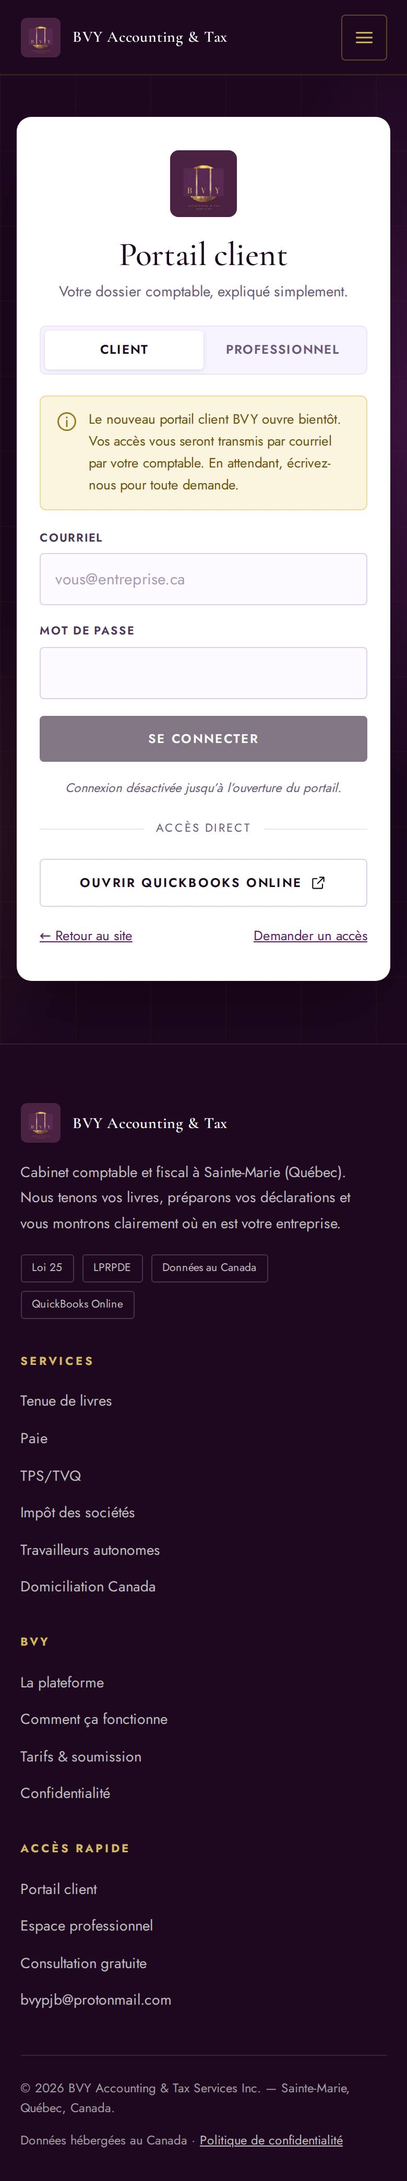
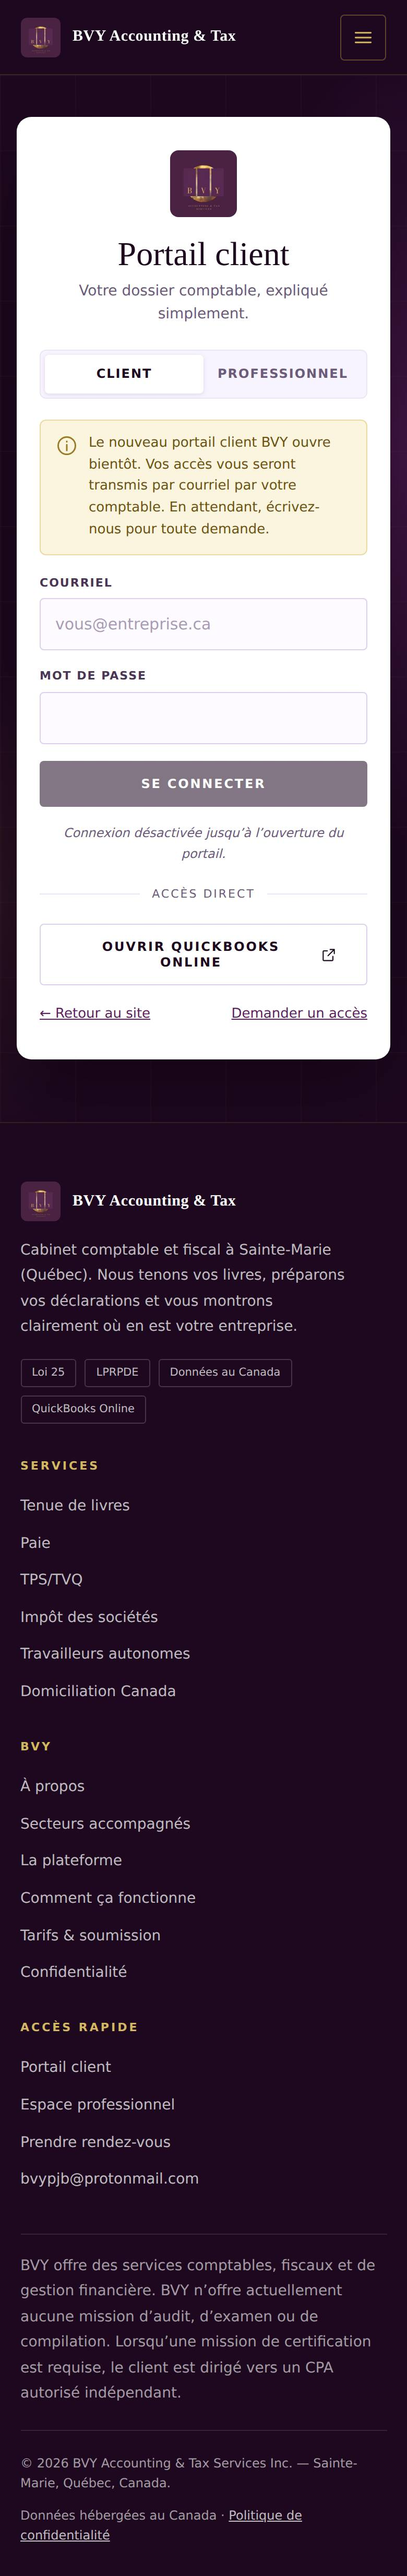
BVY site: sector photos, lazy-load aware screenshots
Twelve Pixabay images for the six sector pages (10 are labelled
AI-generated on Pixabay, listed in CREDITS.md for owner review); footer
notice full width; review screenshots now include the sector pages.

Claude-Session: https://claude.ai/code/session_01TRM3YquBMTjpZKPZenWy7D

Changed region(s): [[0.0308, 0.0, 0.9846, 0.9952], [0.4923, 0.8708, 0.8615, 0.9952]]

diff --git a/bvy-platform/apps/website/public/404.html b/bvy-platform/apps/website/public/404.html
@@ -20,7 +20,7 @@
 <link rel="preconnect" href="https://fonts.googleapis.com">
 <link rel="preconnect" href="https://fonts.gstatic.com" crossorigin>
 <link href="https://fonts.googleapis.com/css2?family=Cormorant+Garamond:ital,wght@0,400;0,500;0,600;0,700;1,400;1,500&family=Jost:wght@300;400;500;600;700&family=IBM+Plex+Mono:wght@400&display=swap" rel="stylesheet">
-<link rel="stylesheet" href="/assets/css/bvy.css?v=7859600e">
+<link rel="stylesheet" href="/assets/css/bvy.css?v=3af2aff9">
 
 </head>
 <body>
@@ -161,6 +161,6 @@
     </div>
   </div>
 </footer>
-<script src="/assets/js/bvy.js?v=7859600e" defer></script>
+<script src="/assets/js/bvy.js?v=3af2aff9" defer></script>
 </body>
 </html>

diff --git a/bvy-platform/apps/website/public/a-propos/index.html b/bvy-platform/apps/website/public/a-propos/index.html
@@ -20,7 +20,7 @@
 <link rel="preconnect" href="https://fonts.googleapis.com">
 <link rel="preconnect" href="https://fonts.gstatic.com" crossorigin>
 <link href="https://fonts.googleapis.com/css2?family=Cormorant+Garamond:ital,wght@0,400;0,500;0,600;0,700;1,400;1,500&family=Jost:wght@300;400;500;600;700&family=IBM+Plex+Mono:wght@400&display=swap" rel="stylesheet">
-<link rel="stylesheet" href="/assets/css/bvy.css?v=7859600e">
+<link rel="stylesheet" href="/assets/css/bvy.css?v=3af2aff9">
 
 </head>
 <body>
@@ -213,6 +213,6 @@
     </div>
   </div>
 </footer>
-<script src="/assets/js/bvy.js?v=7859600e" defer></script>
+<script src="/assets/js/bvy.js?v=3af2aff9" defer></script>
 </body>
 </html>

diff --git a/bvy-platform/apps/website/public/comptabilite-agence-placement-personnel-quebec/index.html b/bvy-platform/apps/website/public/comptabilite-agence-placement-personnel-quebec/index.html
@@ -20,7 +20,7 @@
 <link rel="preconnect" href="https://fonts.googleapis.com">
 <link rel="preconnect" href="https://fonts.gstatic.com" crossorigin>
 <link href="https://fonts.googleapis.com/css2?family=Cormorant+Garamond:ital,wght@0,400;0,500;0,600;0,700;1,400;1,500&family=Jost:wght@300;400;500;600;700&family=IBM+Plex+Mono:wght@400&display=swap" rel="stylesheet">
-<link rel="stylesheet" href="/assets/css/bvy.css?v=7859600e">
+<link rel="stylesheet" href="/assets/css/bvy.css?v=3af2aff9">
 
 </head>
 <body>
@@ -315,6 +315,6 @@
     </div>
   </div>
 </footer>
-<script src="/assets/js/bvy.js?v=7859600e" defer></script>
+<script src="/assets/js/bvy.js?v=3af2aff9" defer></script>
 </body>
 </html>

diff --git a/bvy-platform/apps/website/public/comptabilite-createurs-contenu-influenceurs-canada/index.html b/bvy-platform/apps/website/public/comptabilite-createurs-contenu-influenceurs-canada/index.html
@@ -20,7 +20,7 @@
 <link rel="preconnect" href="https://fonts.googleapis.com">
 <link rel="preconnect" href="https://fonts.gstatic.com" crossorigin>
 <link href="https://fonts.googleapis.com/css2?family=Cormorant+Garamond:ital,wght@0,400;0,500;0,600;0,700;1,400;1,500&family=Jost:wght@300;400;500;600;700&family=IBM+Plex+Mono:wght@400&display=swap" rel="stylesheet">
-<link rel="stylesheet" href="/assets/css/bvy.css?v=7859600e">
+<link rel="stylesheet" href="/assets/css/bvy.css?v=3af2aff9">
 
 </head>
 <body>
@@ -315,6 +315,6 @@
     </div>
   </div>
 </footer>
-<script src="/assets/js/bvy.js?v=7859600e" defer></script>
+<script src="/assets/js/bvy.js?v=3af2aff9" defer></script>
 </body>
 </html>

diff --git a/bvy-platform/apps/website/public/comptabilite-entreprise-ia-saas-quebec/index.html b/bvy-platform/apps/website/public/comptabilite-entreprise-ia-saas-quebec/index.html
@@ -20,7 +20,7 @@
 <link rel="preconnect" href="https://fonts.googleapis.com">
 <link rel="preconnect" href="https://fonts.gstatic.com" crossorigin>
 <link href="https://fonts.googleapis.com/css2?family=Cormorant+Garamond:ital,wght@0,400;0,500;0,600;0,700;1,400;1,500&family=Jost:wght@300;400;500;600;700&family=IBM+Plex+Mono:wght@400&display=swap" rel="stylesheet">
-<link rel="stylesheet" href="/assets/css/bvy.css?v=7859600e">
+<link rel="stylesheet" href="/assets/css/bvy.css?v=3af2aff9">
 
 </head>
 <body>
@@ -316,6 +316,6 @@
     </div>
   </div>
 </footer>
-<script src="/assets/js/bvy.js?v=7859600e" defer></script>
+<script src="/assets/js/bvy.js?v=3af2aff9" defer></script>
 </body>
 </html>

diff --git a/bvy-platform/apps/website/public/comptabilite-soins-domicile-services-sociaux-quebec/index.html b/bvy-platform/apps/website/public/comptabilite-soins-domicile-services-sociaux-quebec/index.html
@@ -20,7 +20,7 @@
 <link rel="preconnect" href="https://fonts.googleapis.com">
 <link rel="preconnect" href="https://fonts.gstatic.com" crossorigin>
 <link href="https://fonts.googleapis.com/css2?family=Cormorant+Garamond:ital,wght@0,400;0,500;0,600;0,700;1,400;1,500&family=Jost:wght@300;400;500;600;700&family=IBM+Plex+Mono:wght@400&display=swap" rel="stylesheet">
-<link rel="stylesheet" href="/assets/css/bvy.css?v=7859600e">
+<link rel="stylesheet" href="/assets/css/bvy.css?v=3af2aff9">
 
 </head>
 <body>
@@ -314,6 +314,6 @@
     </div>
   </div>
 </footer>
-<script src="/assets/js/bvy.js?v=7859600e" defer></script>
+<script src="/assets/js/bvy.js?v=3af2aff9" defer></script>
 </body>
 </html>

diff --git a/bvy-platform/apps/website/public/comptable-shopify-commerce-electronique-quebec/index.html b/bvy-platform/apps/website/public/comptable-shopify-commerce-electronique-quebec/index.html
@@ -20,7 +20,7 @@
 <link rel="preconnect" href="https://fonts.googleapis.com">
 <link rel="preconnect" href="https://fonts.gstatic.com" crossorigin>
 <link href="https://fonts.googleapis.com/css2?family=Cormorant+Garamond:ital,wght@0,400;0,500;0,600;0,700;1,400;1,500&family=Jost:wght@300;400;500;600;700&family=IBM+Plex+Mono:wght@400&display=swap" rel="stylesheet">
-<link rel="stylesheet" href="/assets/css/bvy.css?v=7859600e">
+<link rel="stylesheet" href="/assets/css/bvy.css?v=3af2aff9">
 
 </head>
 <body>
@@ -332,6 +332,6 @@
     </div>
   </div>
 </footer>
-<script src="/assets/js/bvy.js?v=7859600e" defer></script>
+<script src="/assets/js/bvy.js?v=3af2aff9" defer></script>
 </body>
 </html>

diff --git a/bvy-platform/apps/website/public/confidentialite/index.html b/bvy-platform/apps/website/public/confidentialite/index.html
@@ -20,7 +20,7 @@
 <link rel="preconnect" href="https://fonts.googleapis.com">
 <link rel="preconnect" href="https://fonts.gstatic.com" crossorigin>
 <link href="https://fonts.googleapis.com/css2?family=Cormorant+Garamond:ital,wght@0,400;0,500;0,600;0,700;1,400;1,500&family=Jost:wght@300;400;500;600;700&family=IBM+Plex+Mono:wght@400&display=swap" rel="stylesheet">
-<link rel="stylesheet" href="/assets/css/bvy.css?v=7859600e">
+<link rel="stylesheet" href="/assets/css/bvy.css?v=3af2aff9">
 
 </head>
 <body>
@@ -237,6 +237,6 @@
     </div>
   </div>
 </footer>
-<script src="/assets/js/bvy.js?v=7859600e" defer></script>
+<script src="/assets/js/bvy.js?v=3af2aff9" defer></script>
 </body>
 </html>

diff --git a/bvy-platform/apps/website/public/connexion/index.html b/bvy-platform/apps/website/public/connexion/index.html
@@ -20,7 +20,7 @@
 <link rel="preconnect" href="https://fonts.googleapis.com">
 <link rel="preconnect" href="https://fonts.gstatic.com" crossorigin>
 <link href="https://fonts.googleapis.com/css2?family=Cormorant+Garamond:ital,wght@0,400;0,500;0,600;0,700;1,400;1,500&family=Jost:wght@300;400;500;600;700&family=IBM+Plex+Mono:wght@400&display=swap" rel="stylesheet">
-<link rel="stylesheet" href="/assets/css/bvy.css?v=7859600e">
+<link rel="stylesheet" href="/assets/css/bvy.css?v=3af2aff9">
 
 </head>
 <body>
@@ -168,6 +168,6 @@
     </div>
   </div>
 </footer>
-<script src="/assets/js/bvy.js?v=7859600e" defer></script>
+<script src="/assets/js/bvy.js?v=3af2aff9" defer></script>
 </body>
 </html>

diff --git a/bvy-platform/apps/website/public/contact/index.html b/bvy-platform/apps/website/public/contact/index.html
@@ -20,7 +20,7 @@
 <link rel="preconnect" href="https://fonts.googleapis.com">
 <link rel="preconnect" href="https://fonts.gstatic.com" crossorigin>
 <link href="https://fonts.googleapis.com/css2?family=Cormorant+Garamond:ital,wght@0,400;0,500;0,600;0,700;1,400;1,500&family=Jost:wght@300;400;500;600;700&family=IBM+Plex+Mono:wght@400&display=swap" rel="stylesheet">
-<link rel="stylesheet" href="/assets/css/bvy.css?v=7859600e">
+<link rel="stylesheet" href="/assets/css/bvy.css?v=3af2aff9">
 
 </head>
 <body>
@@ -208,6 +208,6 @@
     </div>
   </div>
 </footer>
-<script src="/assets/js/bvy.js?v=7859600e" defer></script>
+<script src="/assets/js/bvy.js?v=3af2aff9" defer></script>
 </body>
 </html>

diff --git a/bvy-platform/apps/website/public/contact/merci/index.html b/bvy-platform/apps/website/public/contact/merci/index.html
@@ -20,7 +20,7 @@
 <link rel="preconnect" href="https://fonts.googleapis.com">
 <link rel="preconnect" href="https://fonts.gstatic.com" crossorigin>
 <link href="https://fonts.googleapis.com/css2?family=Cormorant+Garamond:ital,wght@0,400;0,500;0,600;0,700;1,400;1,500&family=Jost:wght@300;400;500;600;700&family=IBM+Plex+Mono:wght@400&display=swap" rel="stylesheet">
-<link rel="stylesheet" href="/assets/css/bvy.css?v=7859600e">
+<link rel="stylesheet" href="/assets/css/bvy.css?v=3af2aff9">
 
 </head>
 <body>
@@ -162,6 +162,6 @@
     </div>
   </div>
 </footer>
-<script src="/assets/js/bvy.js?v=7859600e" defer></script>
+<script src="/assets/js/bvy.js?v=3af2aff9" defer></script>
 </body>
 </html>

diff --git a/bvy-platform/apps/website/public/fiscalite-societe-canadienne-non-resident/index.html b/bvy-platform/apps/website/public/fiscalite-societe-canadienne-non-resident/index.html
@@ -20,7 +20,7 @@
 <link rel="preconnect" href="https://fonts.googleapis.com">
 <link rel="preconnect" href="https://fonts.gstatic.com" crossorigin>
 <link href="https://fonts.googleapis.com/css2?family=Cormorant+Garamond:ital,wght@0,400;0,500;0,600;0,700;1,400;1,500&family=Jost:wght@300;400;500;600;700&family=IBM+Plex+Mono:wght@400&display=swap" rel="stylesheet">
-<link rel="stylesheet" href="/assets/css/bvy.css?v=7859600e">
+<link rel="stylesheet" href="/assets/css/bvy.css?v=3af2aff9">
 
 </head>
 <body>
@@ -316,6 +316,6 @@
     </div>
   </div>
 </footer>
-<script src="/assets/js/bvy.js?v=7859600e" defer></script>
+<script src="/assets/js/bvy.js?v=3af2aff9" defer></script>
 </body>
 </html>
